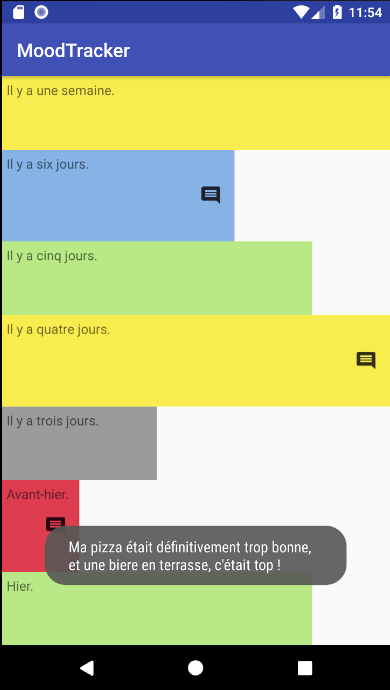
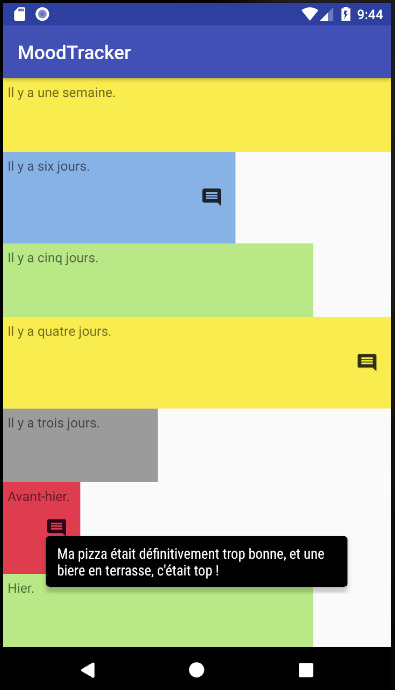
fix the weight of the row in historyactivity

diff --git a/app/src/main/java/com/example/moodtracker/controller/HistoryActivity.java b/app/src/main/java/com/example/moodtracker/controller/HistoryActivity.java
@@ -24,7 +24,6 @@ import java.util.List;
  * The only things that do HistoryActivity is to collect information
  * in SharedPreferences of user and display it.
  */
-
 public class HistoryActivity extends AppCompatActivity {
 
     private TableLayout mTableLayout;
@@ -77,7 +76,7 @@ public class HistoryActivity extends AppCompatActivity {
                     0,
                     1.0f);
             row.setLayoutParams(rowLayoutParams);
-            row.setWeightSum(Mood.values().length);
+            row.setWeightSum(weightMax());
 
             LinearLayout rowLinearLayout = row.findViewById(R.id.history_row_linear_layout);
             TextView date = (TextView) row.findViewById(R.id.history_row_txt);
@@ -98,6 +97,21 @@ public class HistoryActivity extends AppCompatActivity {
         }
     }
 
+    /**
+     * The width of a row is determine by a weight/weightSum systèm.
+     * The system is disigned to the minimum width of sad mood is at least 1/5 of the
+     * screen width.
+     * If  1 <= moodNumber <= 5 then  different rate of width are 1/moodNumber, 2/moodNumber, ... moodNumber/moodNumber = 1.
+     * If 6 <= moodNumber <= 10 then different rate of width are 2/(moodNumber+1), 3/(moodNumber+1), ... (moodNumber+1)/(moodNumber+1) = 1
+     * If 11 <= moodNumber <= 15 then different rate of width are 3/(moodNumber+2), 4/(moodNumber+2), ... (moodNumber+2)/(moodNumber+2) = 1
+     *
+     * So we see that for each slice of 5 number, weightMax is increment by 1 (moodNumber, moodNumber+1, moodNumber+2, ...)
+     * it is exactly the behavior of the number (moodNumber - 1)/5
+     */
+    private float weightMax () {
+        int moodNumber = Mood.values().length;
+        return (moodNumber + (moodNumber - 1) / 5);
+    }
     /**
      * Just for the sake of readability. If one day the user not used the application,
      * mMoodList contains the value -1, hence a value that is different of -1 means that

diff --git a/app/src/main/java/com/example/moodtracker/model/Mood.java b/app/src/main/java/com/example/moodtracker/model/Mood.java
@@ -7,16 +7,14 @@ import com.example.moodtracker.R;
  * many funtions to link a mood to hits spécifique data,
  * like background color, smiley, music sound etc
  */
-
-/**
- * ! ! WARNING ! !
- * It is important that Moods are sorted from sadder to happier
- * moreover Data arrays (SMILEYS,COLORS, and NOTES) should be
- * "sorted" of the same manner (i.e smyleys are sorted from sadder to happier,
- * corresponding colors and notes too).
- */
 public enum Mood {
-
+    /**
+     * ! ! WARNING ! !
+     * It is important that Moods are sorted from sadder to happier
+     * moreover Data arrays (SMILEYS,COLORS, and NOTES) should be
+     * "sorted" of the same manner (i.e smyleys are sorted from sadder to happier,
+     * corresponding colors and notes too).
+     */
     SAD,
     DISAPPOINTED,
     NORMAL,
@@ -38,6 +36,7 @@ public enum Mood {
      * the historyActivity. weight is define such that the width of
      * the sadder mood is at least 1/5 of the screen width. And
      * such that the width of the happier mood is equals to the screen width.
+     * See the weightMax function of HistoryActivity for more details
      */
     public float weight() {
         return (values().length - 1) / 5 + ordinal() + 1;
@@ -47,7 +46,6 @@ public enum Mood {
      * prev and next function are used to determine
      * the next or previous mood when the user swipe on the screen.
      */
-
     public int prev() {
         if (ordinal() != 0) return ordinal() - 1;
         else return ordinal();

diff --git a/app/src/main/java/com/example/moodtracker/model/DayDate.java b/app/src/main/java/com/example/moodtracker/model/DayDate.java
@@ -14,7 +14,6 @@ import java.util.Date;
  * has hour, minutes, ...  So in this class we set hour, minutes etc to 0 to
  * havea "Day date" i.e. a date with only relevant information for our application.
  */
-
 public class DayDate {
 
     private Date mDate;

diff --git a/app/src/main/java/com/example/moodtracker/controller/MusicSound.java b/app/src/main/java/com/example/moodtracker/controller/MusicSound.java
@@ -12,7 +12,6 @@ import com.example.moodtracker.model.Mood;
  * SoundPool allows android to play short music file.
  * It is use here to play the note for each mood when the user swipe.
  */
-
 public class MusicSound {
 
     private SoundPool mSoundPool;

diff --git a/app/src/main/java/com/example/moodtracker/controller/DataManager.java b/app/src/main/java/com/example/moodtracker/controller/DataManager.java
@@ -8,7 +8,6 @@ import com.example.moodtracker.model.Mood;
 /**
  * DataManager manage the Shared Preferences of the user.
  */
-
 public class DataManager {
 
 
